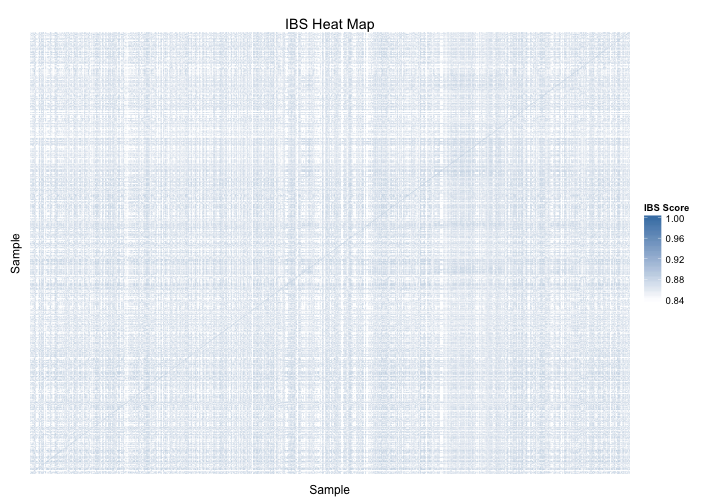
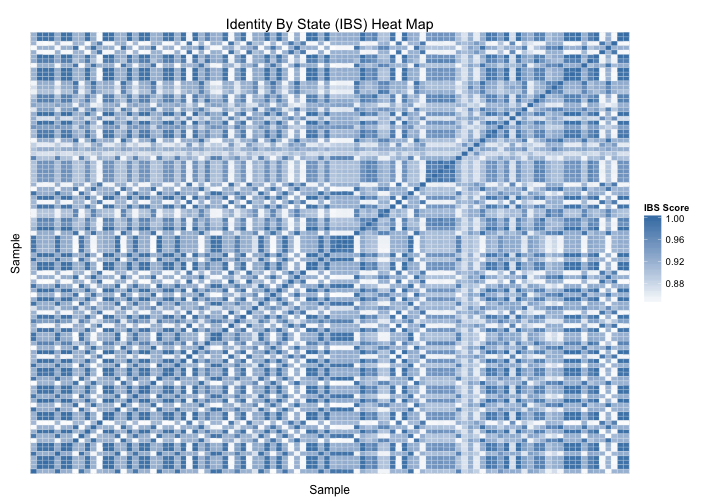
Improved the visual appearance of the heat map.
Restricted the matrix to a sample of the individuals.
Made the matrix symmetric.

diff --git a/results/ibs/1000Genomes-BRCA1/plot-ibs-data.md b/results/ibs/1000Genomes-BRCA1/plot-ibs-data.md
@@ -13,6 +13,27 @@ ibs_pairs <- read.table("./1000genomes_phase1_brca1.ibs", header=FALSE,
 colnames(ibs_pairs) <- c("sample1", "sample2", "ibs_score")
 ```
 
+Extract the IBS matrix for a random sample of individuals.
+
+
+```r
+individuals <- unique(ibs_pairs$sample1)
+sample_size <- 100
+sample <- sample(individuals, sample_size)
+```
+
+Make the IBS matrix symmetric.
+
+
+```r
+ibs_pairs <- subset(ibs_pairs, ibs_pairs$sample1 %in% sample)
+ibs_pairs <- subset(ibs_pairs, ibs_pairs$sample2 %in% sample)
+ibs_pairs_mirrored <- data.frame(sample1=ibs_pairs$sample2,
+                                 sample2=ibs_pairs$sample1,
+                                 ibs_score=ibs_pairs$ibs_score)
+ibs_pairs <- rbind(ibs_pairs, ibs_pairs_mirrored)
+```
+
 Then, draw a heat map based on the IBS scores.
 
 
@@ -21,9 +42,9 @@ require(ggplot2)
 p <- ggplot(data=ibs_pairs, aes(x=sample1, y=sample2)) +
      theme(axis.ticks=element_blank(), axis.text=element_blank()) +
      geom_tile(aes(fill=ibs_score), colour="white") +
-     scale_fill_gradient(low="white", high="steelblue",
+     scale_fill_gradient(low="white", high="steelblue", na.value="black",
                          guide=guide_colourbar(title="IBS Score")) +
-     labs(list(title="IBS Heat Map", x="Sample", y="Sample"))
+     labs(list(title="Identity By State (IBS) Heat Map", x="Sample", y="Sample"))
 p
 ```
 
